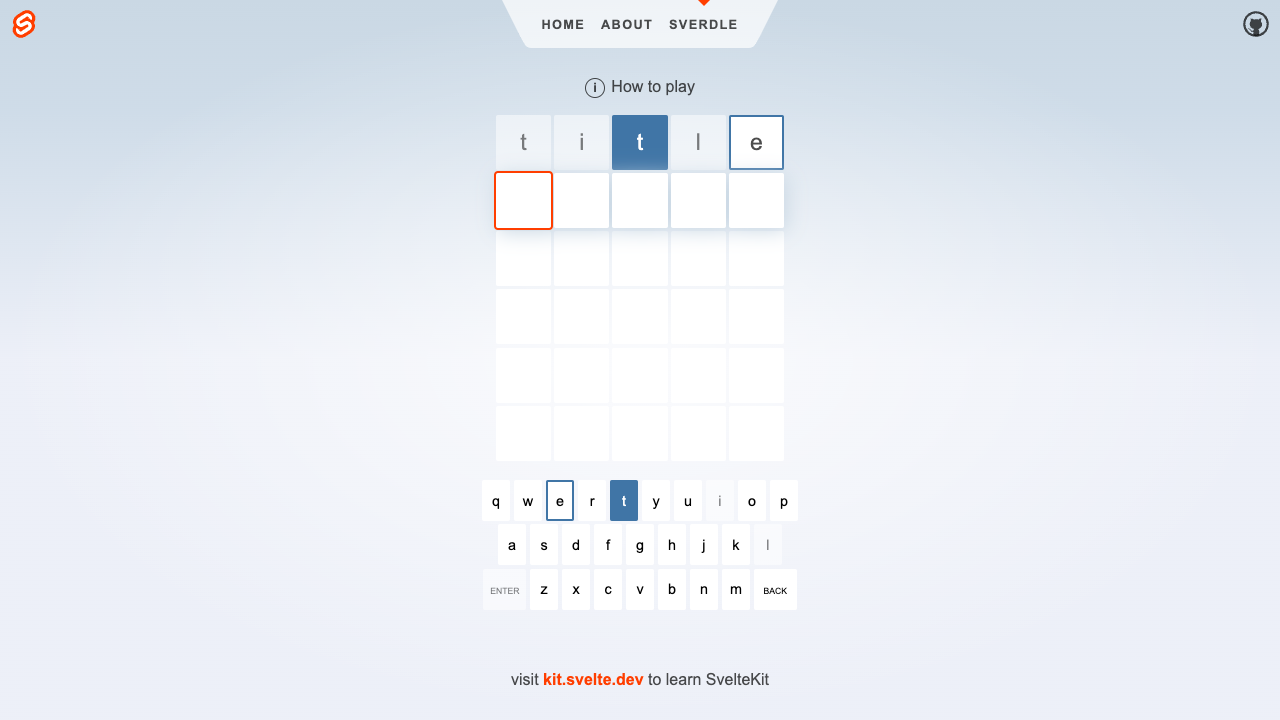
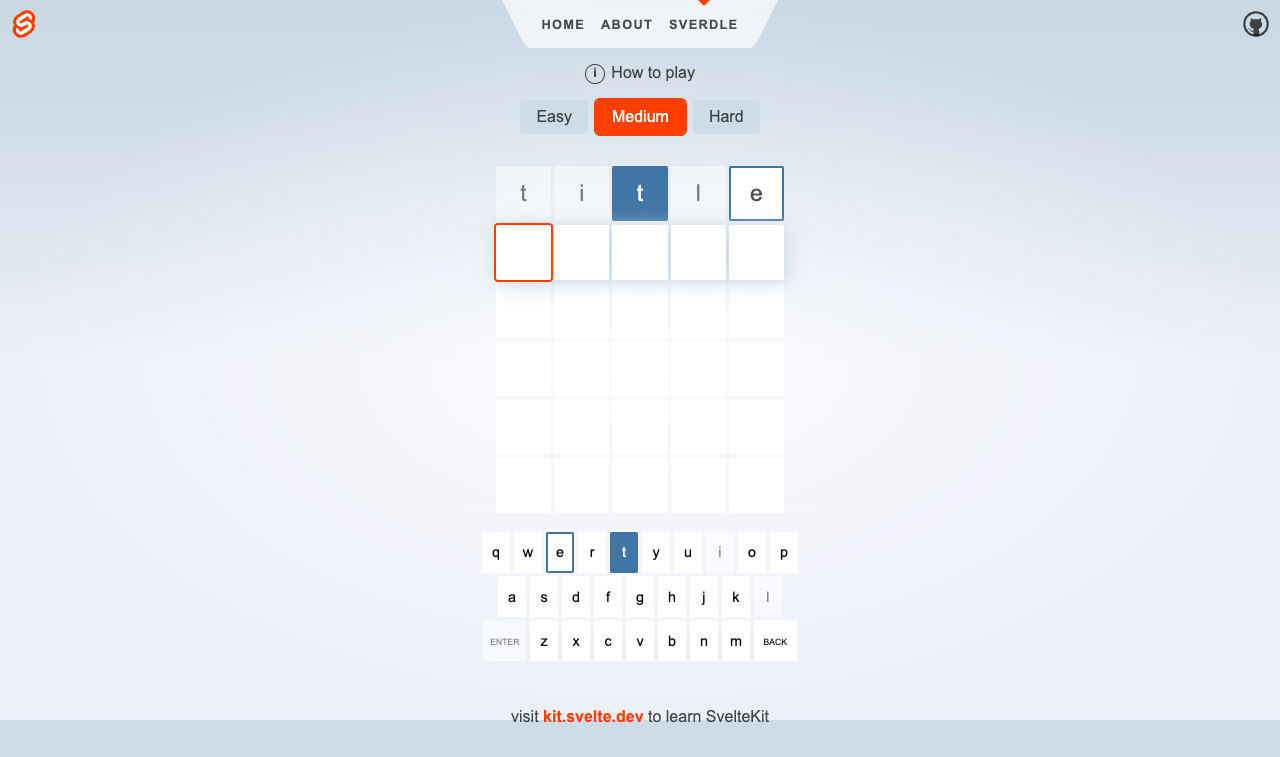
initial effort by Claude, based on Gherkin tests

diff --git a/src/routes/sverdle/+page.svelte b/src/routes/sverdle/+page.svelte
@@ -8,14 +8,16 @@
 
 	export let form: ActionData;
 
+	$: ({ guesses, answers, maxGuesses, answer: answerRevealed, difficulty } = data);
+
 	/** Whether or not the user has won */
-	$: won = data.answers.at(-1) === 'xxxxx';
+	$: won = answers.at(-1) === 'xxxxx';
 
 	/** The index of the current guess */
-	$: i = won ? -1 : data.answers.length;
+	$: i = won ? -1 : answers.length;
 
 	/** The current guess */
-	$: currentGuess = data.guesses[i] || '';
+	$: currentGuess = guesses[i] || '';
 
 	/** Whether the current guess can be submitted */
 	$: submittable = currentGuess.length === 5;
@@ -36,8 +38,8 @@
 		classnames = {};
 		description = {};
 
-		data.answers.forEach((answer, i) => {
-			const guess = data.guesses[i];
+		answers.forEach((answer, i) => {
+			const guess = guesses[i];
 
 			for (let i = 0; i < 5; i += 1) {
 				const letter = guess[i];
@@ -106,14 +108,44 @@
 >
 	<a class="how-to-play" href="/sverdle/how-to-play">How to play</a>
 
+	<div class="difficulty-buttons">
+		<button
+			class="difficulty-button"
+			class:selected={difficulty === 'easy'}
+			formaction="?/setDifficulty"
+			name="difficulty"
+			value="easy"
+		>
+			Easy
+		</button>
+		<button
+			class="difficulty-button"
+			class:selected={difficulty === 'medium'}
+			formaction="?/setDifficulty"
+			name="difficulty"
+			value="medium"
+		>
+			Medium
+		</button>
+		<button
+			class="difficulty-button"
+			class:selected={difficulty === 'hard'}
+			formaction="?/setDifficulty"
+			name="difficulty"
+			value="hard"
+		>
+			Hard
+		</button>
+	</div>
+
 	<div class="grid" class:playing={!won} class:bad-guess={form?.badGuess}>
-		{#each Array.from(Array(6).keys()) as row (row)}
+		{#each Array.from(Array(maxGuesses).keys()) as row (row)}
 			{@const current = row === i}
 			<h2 class="visually-hidden">Row {row + 1}</h2>
 			<div class="row" class:current>
 				{#each Array.from(Array(5).keys()) as column (column)}
-					{@const guess = current ? currentGuess : data.guesses[row]}
-					{@const answer = data.answers[row]?.[column]}
+					{@const guess = current ? currentGuess : guesses[row]}
+					{@const answer = answers[row]?.[column]}
 					{@const value = guess?.[column] ?? ''}
 					{@const selected = current && column === guess.length}
 					{@const exact = answer === 'x'}
@@ -140,9 +172,9 @@
 	</div>
 
 	<div class="controls">
-		{#if won || data.answers.length >= 6}
-			{#if !won && data.answer}
-				<p>the answer was "{data.answer}"</p>
+		{#if won || answers.length >= maxGuesses}
+			{#if !won && answerRevealed}
+				<p>the answer was "{answerRevealed}"</p>
 			{/if}
 			<button data-key="enter" class="restart selected" formaction="?/restart">
 				{won ? 'you won :)' : `game over :(`} play again?
@@ -228,6 +260,31 @@
 		margin: 0 0.5em 0 0;
 		position: relative;
 		top: -0.05em;
+	}
+
+	.difficulty-buttons {
+		display: flex;
+		gap: 0.5rem;
+		margin-bottom: 1rem;
+	}
+
+	.difficulty-button {
+		padding: 0.5rem 1rem;
+		border: none;
+		border-radius: 4px;
+		background-color: var(--color-bg-1);
+		color: var(--color-text);
+		cursor: pointer;
+		transition: background-color 0.2s;
+	}
+
+	.difficulty-button:hover {
+		background-color: var(--color-bg-2);
+	}
+
+	.difficulty-button.selected {
+		background-color: var(--color-theme-1);
+		color: white;
 	}
 
 	.grid {

diff --git a/src/routes/sverdle/+page.server.ts b/src/routes/sverdle/+page.server.ts
@@ -1,34 +1,20 @@
 import { fail } from '@sveltejs/kit';
-import { Game } from './game';
+import { Game, type Difficulty } from './game';
 import type { PageServerLoad, Actions } from './$types';
 
 export const load = (({ cookies }) => {
 	const game = new Game(cookies.get('sverdle'));
 
 	return {
-		/**
-		 * The player's guessed words so far
-		 */
 		guesses: game.guesses,
-
-		/**
-		 * An array of strings like '__x_c' corresponding to the guesses, where 'x' means
-		 * an exact match, and 'c' means a close match (right letter, wrong place)
-		 */
 		answers: game.answers,
-
-		/**
-		 * The correct answer, revealed if the game is over
-		 */
-		answer: game.answers.length >= 6 ? game.answer : null
+		maxGuesses: game.maxGuesses,
+		answer: game.gameOver ? game.answer : null,
+		difficulty: game.difficulty
 	};
 }) satisfies PageServerLoad;
 
 export const actions = {
-	/**
-	 * Modify game state in reaction to a keypress. If client-side JavaScript
-	 * is available, this will happen in the browser instead of here
-	 */
 	update: async ({ request, cookies }) => {
 		const game = new Game(cookies.get('sverdle'));
 
@@ -38,18 +24,14 @@ export const actions = {
 		const i = game.answers.length;
 
 		if (key === 'backspace') {
-			game.guesses[i] = game.guesses[i].slice(0, -1);
+			game.guesses[i] = game.guesses[i]?.slice(0, -1) ?? '';
 		} else {
-			game.guesses[i] += key;
+			game.guesses[i] = (game.guesses[i] ?? '') + key;
 		}
 
 		cookies.set('sverdle', game.toString(), { path: '/' });
 	},
 
-	/**
-	 * Modify game state in reaction to a guessed word. This logic always runs on
-	 * the server, so that people can't cheat by peeking at the JavaScript
-	 */
 	enter: async ({ request, cookies }) => {
 		const game = new Game(cookies.get('sverdle'));
 
@@ -65,5 +47,16 @@ export const actions = {
 
 	restart: async ({ cookies }) => {
 		cookies.delete('sverdle', { path: '/' });
+	},
+
+	setDifficulty: async ({ request, cookies }) => {
+		const game = new Game(cookies.get('sverdle'));
+
+		const data = await request.formData();
+		const difficulty = data.get('difficulty') as Difficulty;
+
+		game.setDifficulty(difficulty);
+
+		cookies.set('sverdle', game.toString(), { path: '/' });
 	}
 } satisfies Actions;

diff --git a/src/routes/sverdle/game.ts b/src/routes/sverdle/game.ts
@@ -1,25 +1,30 @@
 import { words, allowed } from './words.server';
 
+export type Difficulty = 'easy' | 'medium' | 'hard';
+
 export class Game {
 	index: number;
 	guesses: string[];
 	answers: string[];
 	answer: string;
+	difficulty: Difficulty;
 
 	/**
 	 * Create a game object from the player's cookie, or initialise a new game
 	 */
 	constructor(serialized: string | undefined = undefined) {
 		if (serialized) {
-			const [index, guesses, answers] = serialized.split('-');
+			const [index, guesses, answers, difficulty] = serialized.split('-');
 
 			this.index = +index;
 			this.guesses = guesses ? guesses.split(' ') : [];
 			this.answers = answers ? answers.split(' ') : [];
+			this.difficulty = (difficulty as Difficulty) || 'medium';
 		} else {
 			this.index = Math.floor(Math.random() * words.length);
-			this.guesses = ['', '', '', '', '', ''];
+			this.guesses = [];
 			this.answers = [];
+			this.difficulty = 'medium';
 		}
 
 		this.answer = words[this.index];
@@ -35,7 +40,7 @@ export class Game {
 
 		if (!valid) return false;
 
-		this.guesses[this.answers.length] = word;
+		this.guesses.push(word);
 
 		const available = Array.from(this.answer);
 		const answer = Array(5).fill('_');
@@ -67,9 +72,42 @@ export class Game {
 	}
 
 	/**
+	 * Get the maximum number of guesses based on the difficulty
+	 */
+	get maxGuesses() {
+		switch (this.difficulty) {
+			case 'easy':
+				return 8;
+			case 'hard':
+				return 5;
+			default:
+				return 6;
+		}
+	}
+
+	/**
+	 * Check if the game is over
+	 */
+	get gameOver() {
+		return this.answers.length >= this.maxGuesses || this.answers.at(-1) === 'xxxxx';
+	}
+
+	/**
 	 * Serialize game state so it can be set as a cookie
 	 */
 	toString() {
-		return `${this.index}-${this.guesses.join(' ')}-${this.answers.join(' ')}`;
+		return `${this.index}-${this.guesses.join(' ')}-${this.answers.join(' ')}-${this.difficulty}`;
+	}
+
+	/**
+	 * Change the difficulty of the game
+	 */
+	setDifficulty(difficulty: Difficulty) {
+		this.difficulty = difficulty;
+		// Reset the game when changing difficulty
+		this.guesses = [];
+		this.answers = [];
+		this.index = Math.floor(Math.random() * words.length);
+		this.answer = words[this.index];
 	}
 }
